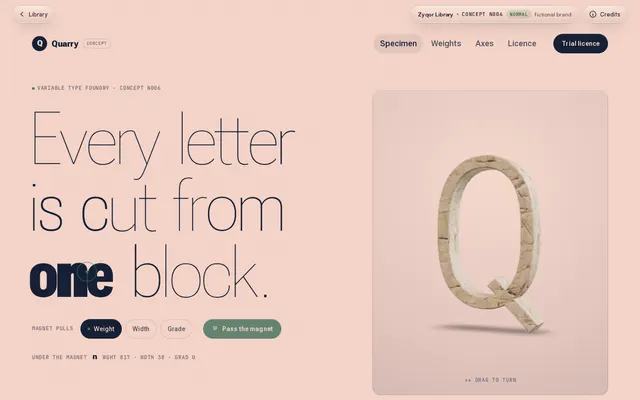
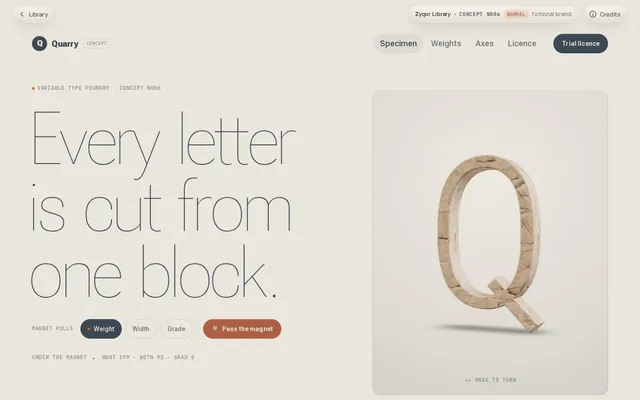
A027 Cut & Grain: phone hero frames the whole knife under the title (no blade cut off at 390/360); N006 catalogue thumb re-shot

diff --git a/site/library/a/A027/app.js b/site/library/a/A027/app.js
@@ -78,7 +78,7 @@ else {
   const pos = new THREE.Vector3(), tgt = new THREE.Vector3();
   let prog = 0, want = 0;
   /* hero pose: the whole knife lying across the lower part of the first screen, three-quarter, under the title */
-  const KH = [side.clone().multiplyScalar(isM ? 7.2 : 3.05).add(E.clone().multiplyScalar(isM ? 0 : -0.12)).setY(isM ? 2.4 : 1.3), new THREE.Vector3(0, isM ? 0.75 : 0.32, 0)];
+  const KH = [side.clone().multiplyScalar(isM ? 9.4 : 3.05).add(E.clone().multiplyScalar(isM ? 0 : -0.12)).setY(isM ? 2.4 : 1.3), new THREE.Vector3(0, isM ? 0 : 0.32, 0)];
   function pose(P) {
     const p = clamp01((P - H) / (1 - H));
     const f = p * 3, i = Math.min(2, Math.floor(f)), t = smoothstep(0, 1, f - i);
@@ -89,6 +89,8 @@ else {
     const roll = isM ? (P < H ? 0.42 * (1 - smoothstep(0.04, H, P)) : smoothstep(0.08, 0.28, p) * (1 - smoothstep(0.72, 0.9, p))) : 0;
     stage.camera.up.set(0, 1, 0).lerp(E, roll).normalize();
     stage.camera.position.copy(pos); stage.camera.lookAt(tgt);
+    /* phone hero: slide the frame up along the rolled screen-up so the whole knife sits under the title */
+    if (isM && P < H) { const k = 1 - smoothstep(0.04, H, P); stage.camera.position.addScaledVector(new THREE.Vector3(0, 1, 0).applyQuaternion(stage.camera.quaternion), 0.95 * k); }
     const apart = smoothstep(0.18, 0.36, p) * (1 - smoothstep(0.62, 0.86, p));
     if (blade) blade.position.copy(bladeHome).addScaledVector(bDir, apart * sBlade);
     if (handle) handle.position.copy(handleHome).addScaledVector(hDir, -apart * sBlade * 0.5);
